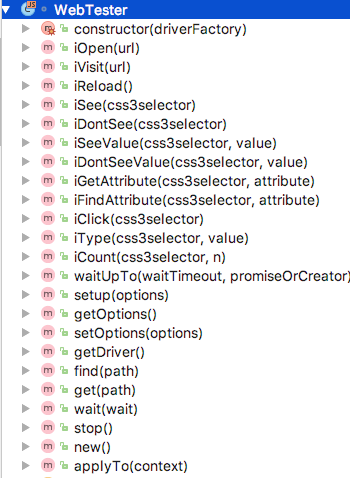
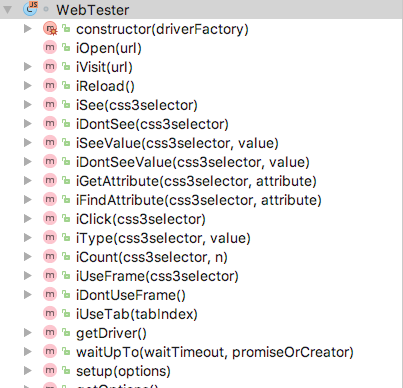
0.0.9

diff --git a/src/WebTester.js b/src/WebTester.js
@@ -83,36 +83,29 @@ module.exports = class WebTester {
             .catch((err) => Promise.reject(`I should count: '${n}' elements in '${css3selector}', found only '${n}'  : ${err.message}`));
     }
 
-    waitUpTo(waitTimeout, promiseOrCreator) {
-        let options = this.getOptions();
+    iUseFrame(css3selector) {
+        return this.getDriver()
+            .then((driver) => driver.switchTo().frame(this.get(css3selector)));
+    }
 
-        return Promise.resolve()
-            .then(() => this.setup({waitTimeout: waitTimeout}))
-            .then(() => {
-                if (promiseOrCreator instanceof Function) {
-                    return promiseOrCreator();
-                } else {
-                    return promiseOrCreator;
-                }
-            })
-            .then((result) => {
-                this.setup(options);
-                return result;
+    iDontUseFrame() {
+        return this.getDriver()
+            .then((driver) => driver.switchTo().defaultContent());
+    }
+
+    iUseTab(tabIndex) {
+        return this.getDriver()
+            .then((driver) => {
+                return Promise.resolve()
+                    .then(() => driver.getAllWindowHandles())
+                    .then((tabs) => {
+                        if(!tabs[tabIndex]) {
+                            return Promise.reject(new Error('Tab has not been found'));
+                        }
+
+                        return driver.switchTo().window(tabs[tabIndex]);
+                    });
             });
-    }
-
-    setup(options = {}) {
-        this.options = Object.assign(this.options, options);
-        return this;
-    }
-
-    getOptions() {
-        return Object.assign({}, this.options);
-    }
-
-    setOptions(options = {}) {
-        this.setup(options);
-        return this;
     }
 
     getDriver() {
@@ -146,6 +139,38 @@ module.exports = class WebTester {
         return this.driverPromise;
     }
 
+    waitUpTo(waitTimeout, promiseOrCreator) {
+        let options = this.getOptions();
+
+        return Promise.resolve()
+            .then(() => this.setup({waitTimeout: waitTimeout}))
+            .then(() => {
+                if (promiseOrCreator instanceof Function) {
+                    return promiseOrCreator();
+                } else {
+                    return promiseOrCreator;
+                }
+            })
+            .then((result) => {
+                this.setup(options);
+                return result;
+            });
+    }
+
+    setup(options = {}) {
+        this.options = Object.assign(this.options, options);
+        return this;
+    }
+
+    getOptions() {
+        return Object.assign({}, this.options);
+    }
+
+    setOptions(options = {}) {
+        this.setup(options);
+        return this;
+    }
+
     find(path) {
         return this.$.all(path);
     }
@@ -154,8 +179,8 @@ module.exports = class WebTester {
         return this.$(path);
     }
 
-    wait(wait) {
-        return this.getDriver().then((driver) => driver.wait(wait, this.options.waitTimeout));
+    wait(waitAcceptor) {
+        return this.getDriver().then((driver) => driver.wait(waitAcceptor, this.options.waitTimeout));
     }
 
     stop() {
@@ -169,7 +194,6 @@ module.exports = class WebTester {
         this.children.push(child);
         return child;
     }
-
 
     applyTo(context) {
         let self = this;
